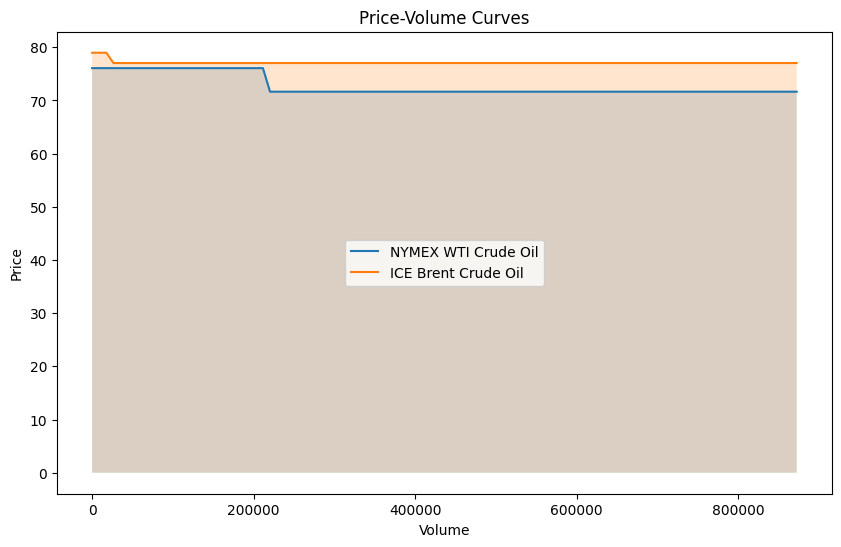
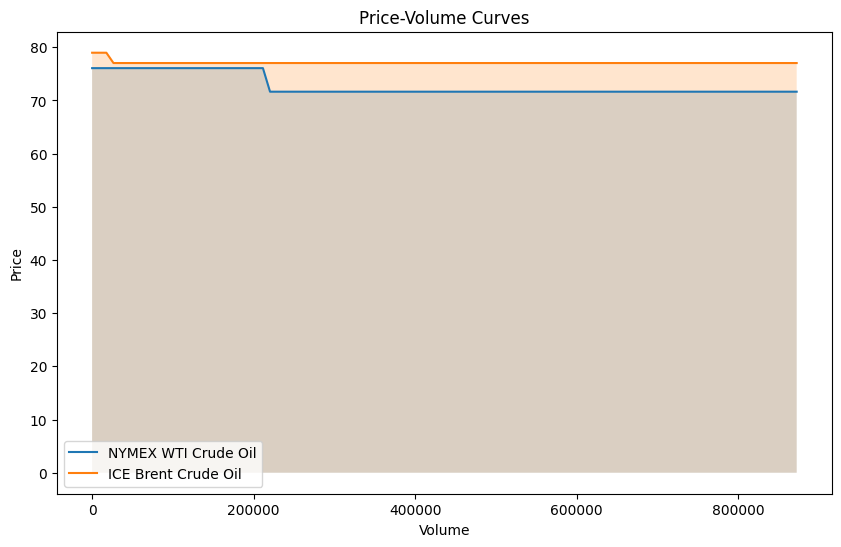
cleaned nb; updated files

Changed region(s): [[0.4019, 0.4351, 0.6492, 0.5283], [0.0927, 0.808, 0.3092, 0.9013]]

diff --git a/marketspacedynamics.py b/marketspacedynamics.py
@@ -67,7 +67,7 @@ class MarketSpaceDynamics:
         plt.plot(x_values, y_values, label=label)
         plt.fill_between(x_values, y_values, alpha=0.2)
 
-    def plot_price_volume_curves(self, save_path=None):
+    def plot_price_volume_curves(self, legend_loc="best", save_path=None):
         # Get min and max volumes safely
         volume_min = min(
             float(self.data[ticker].filter(like="Volume").iloc[:, 0].min())
@@ -97,11 +97,11 @@ class MarketSpaceDynamics:
         plt.xlabel("Volume")
         plt.ylabel("Price")
         plt.title("Price-Volume Curves")
-        plt.legend()
+        plt.legend(loc=legend_loc)
         self.save_plot_if_needed(save_path)
         plt.show()
 
-    def plot_closing_prices(self, save_path=None):
+    def plot_closing_prices(self, legend_loc="best", save_path=None):
         plt.figure(figsize=(10, 6))
         for ticker in self.tickers:
             plt.plot(
@@ -112,7 +112,7 @@ class MarketSpaceDynamics:
         plt.xlabel("Date")
         plt.ylabel("Price")
         plt.title("Closing Prices Over Time")
-        plt.legend()
+        plt.legend(loc=legend_loc)
         self.save_plot_if_needed(save_path)
         plt.show()
 
@@ -141,7 +141,7 @@ class MarketSpaceDynamics:
         )
         return pd.DataFrame({"Date": forecast_index, "Forecast": forecast})
 
-    def plot_forecasts(self, steps, save_path=None):
+    def plot_forecasts(self, steps, legend_loc="best", save_path=None):
         forecast_dfs = {}
         plt.figure(figsize=(10, 6))
         for ticker in self.tickers:
@@ -161,7 +161,7 @@ class MarketSpaceDynamics:
         plt.xlabel("Date")
         plt.ylabel("Price")
         plt.title("Price Forecast")
-        plt.legend()
+        plt.legend(loc=legend_loc)
         self.save_plot_if_needed(save_path)
         plt.show()
         return forecast_dfs

diff --git a/arbitrage_script.py b/arbitrage_script.py
@@ -19,7 +19,9 @@ analysis = MarketSpaceDynamics(
 
 ######################## Plot the price-volume curves ##########################
 
-analysis.plot_price_volume_curves(save_path="./images/price_volume_curve.png")
+analysis.plot_price_volume_curves(
+    legend_loc="lower left", save_path="./images/price_volume_curve.png"
+)
 
 ########################### Plot the closing prices ############################
 
